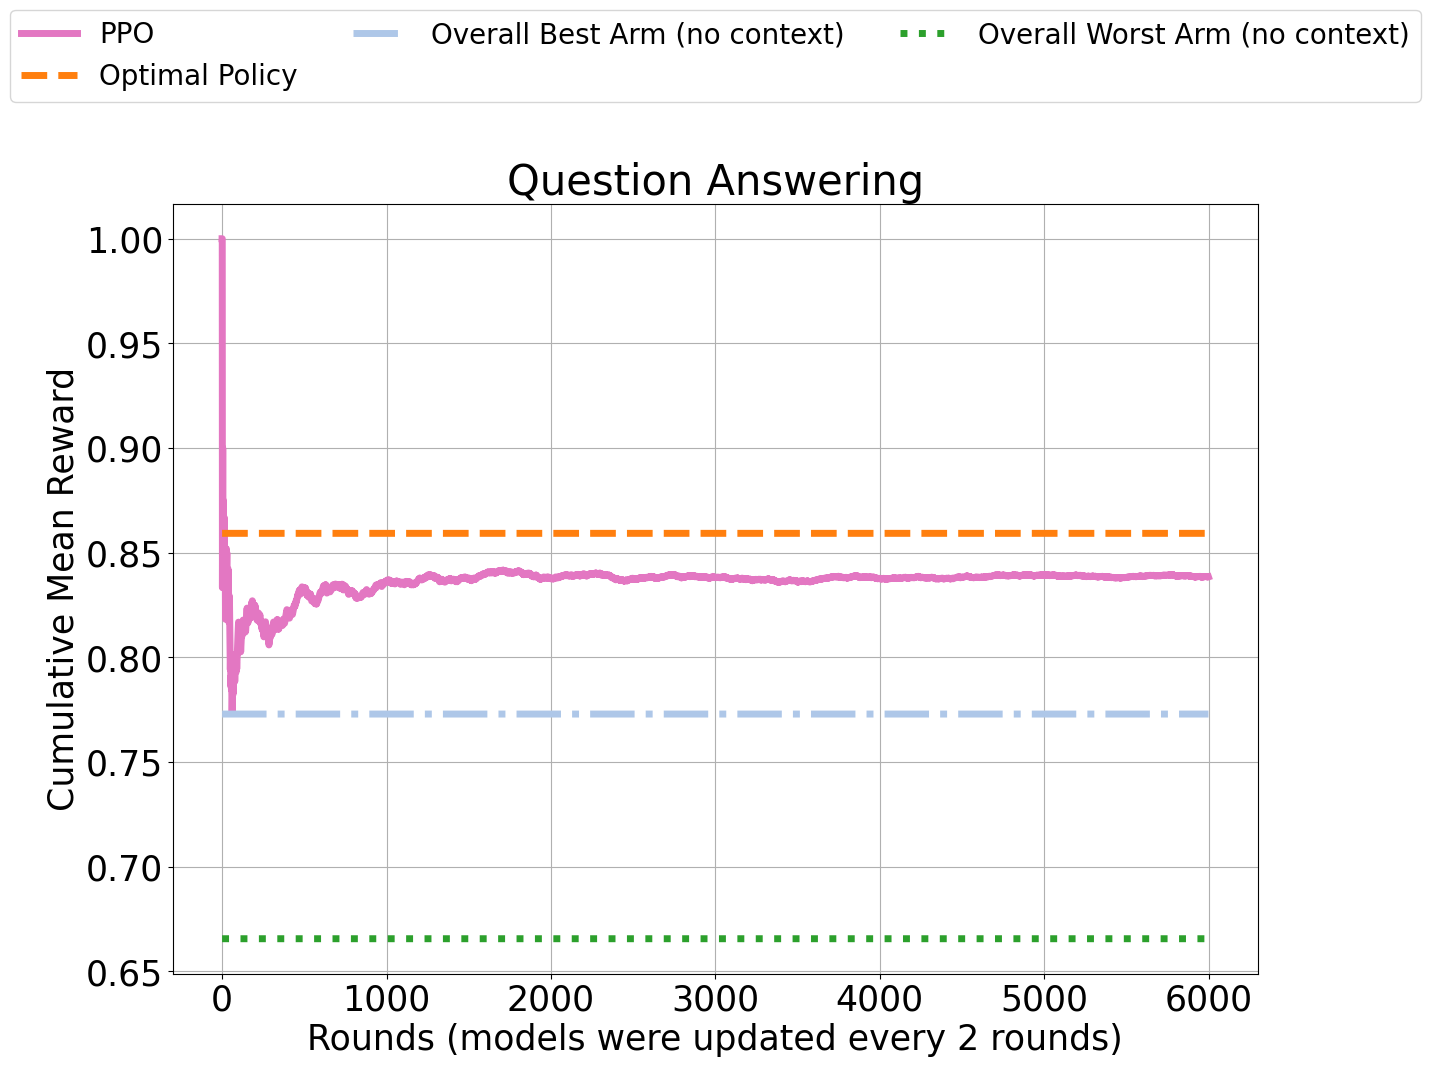
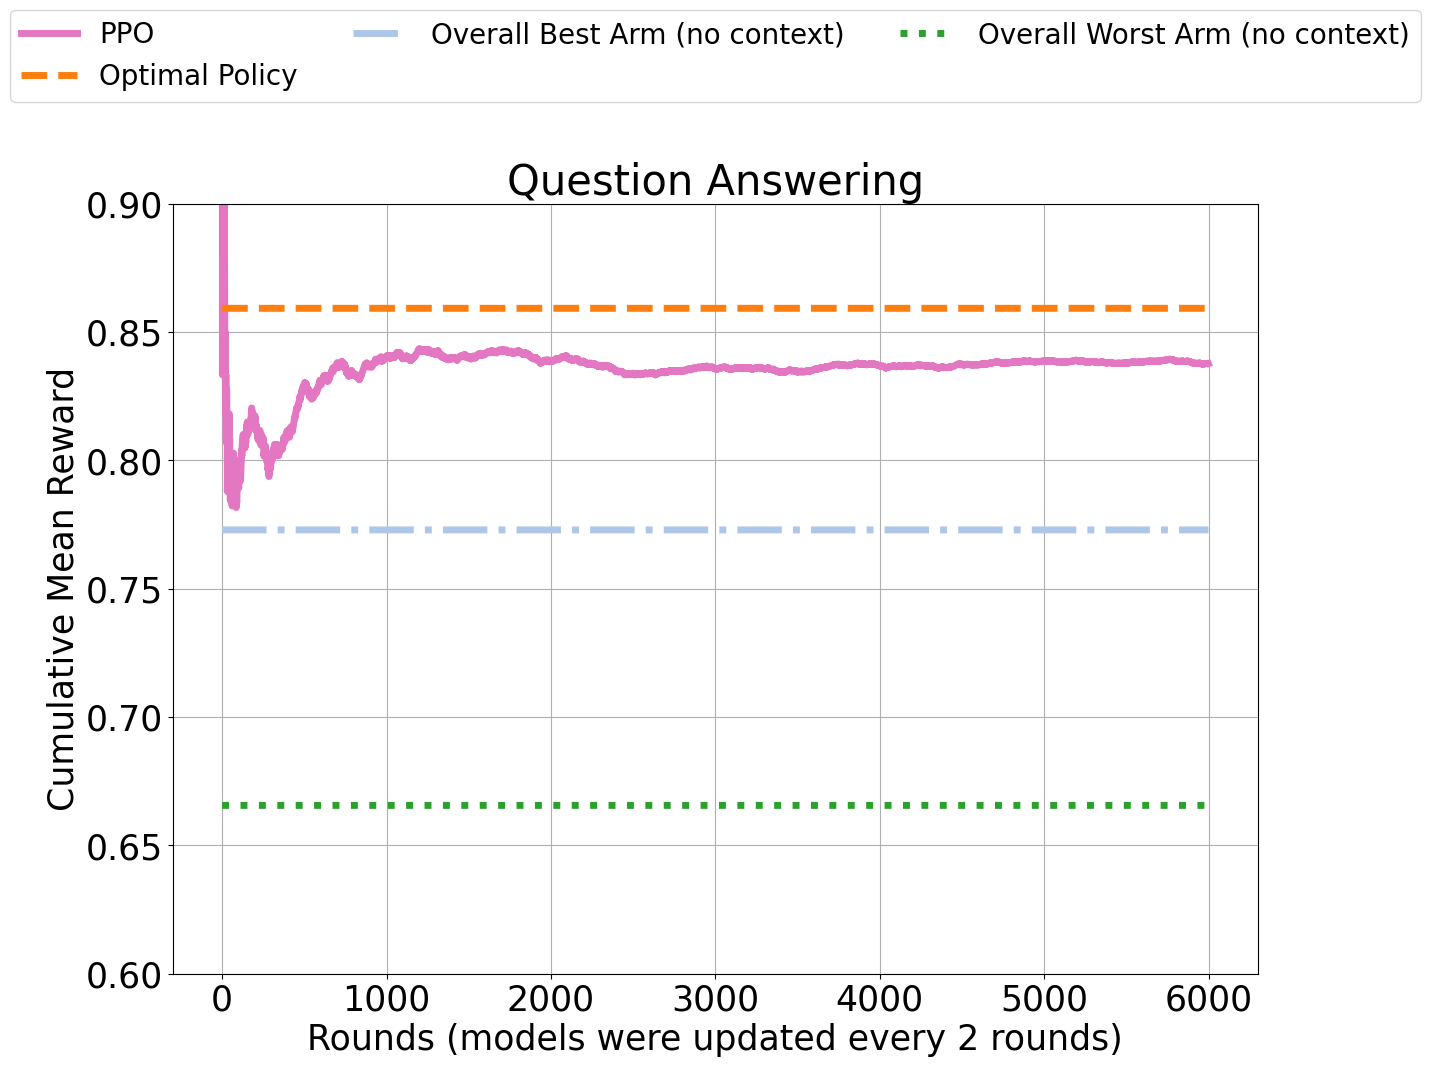
Alfred and mmlu latency done

diff --git a/query/src/plotting/mmlu_latency_plot.py b/query/src/plotting/mmlu_latency_plot.py
@@ -7,7 +7,7 @@ from pylab import rcParams
 from utils import get_mean_reward
 
 bandits = {
-    # 0: "vicuna-7b-v1.5",
+    0: "vicuna-7b-v1.5",
     # 1: "falcon-180B",
     2: "falcon-180B-chat",
     # 3: "qCammel-70-x",
@@ -27,6 +27,8 @@ percentile = 95
 random_seed = 42
 dataset = "mmlu"
 max_iter = 4000
+alpha = 0.03
+beta = 0.0008
 ### set random seed
 np.random.seed(random_seed)
 contextual_bandits = False
@@ -53,15 +55,32 @@ X_complete = np.concatenate(
     axis=1,
 )
 arr = np.random.choice(np.arange(X_complete.shape[0]), dataset_size, replace=True)
-# print(arr)
 print("X complete", X_complete.shape)
 X = X_complete[arr, :]
 
-y_complete = np.load(data_path + "models_accnorm.npy")  # shape = [25256, 8]
-print("y complete", y_complete.shape)
+arm_results = np.load(data_path + "models_accnorm.npy")  # shape = [25256, 8]
+arm_results = arm_results[:, model_idx]
+
+### load latency data
+model_latency = np.zeros_like(arm_results)
+idx = 0
+for key, value in bandits.items():
+    latency = pd.read_csv(f"synced_data/csv/mmlu/{value}_answer_time.csv")
+    latency = np.array(latency["answer_time"] + latency["load_time"])
+    repeat_cnt = arm_results.shape[0] // len(latency) + 1
+    latency = np.tile(latency, repeat_cnt)
+    model_latency[:, idx] = latency[selected_indices]
+    idx += 1
+
+### load token costs
+token_len = np.zeros_like(arm_results)
+token_length = np.load("synced_data/csv/mmlu/question_token_length.npy")
+token_len[:, 1:] = token_length[selected_indices, np.newaxis]
+
+### add acc and latency
+y_complete = arm_results - alpha * np.log10(model_latency) - beta * token_len
 
 y_complete = y_complete[selected_indices, :]
-y_complete = y_complete[:, model_idx]
 y = y_complete[arr, :]
 
 print(X.shape)
@@ -98,7 +117,7 @@ if contextual_bandits:
 rewards_opt = np.array(int(y.shape[0] / batch_size) * [y.max(axis=1).mean()])
 
 ### load PPO reward
-ppo = pd.read_csv(f"./synced_data/cumulative_reward/mmlu_step{batch_size}.csv")
+ppo = pd.read_csv(f"./synced_data/cumulative_reward/mmlu_latency_step{batch_size}.csv")
 ### pandas to numpy
 rewards_ppo = ppo["mean_reward"].to_numpy()[: rewards_opt.shape[0]]
 print("PPO mean reward: ", rewards_ppo.shape)
@@ -167,9 +186,7 @@ plt.xlabel(f"Rounds (models were updated every {batch_size} rounds)", size=25)
 plt.ylabel("Cumulative Mean Reward", size=25)
 plt.title("Question Answering", size=30)
 plt.grid()
-plt.ylim(0.6, 0.9)
-plt.yticks(np.arange(0.6, 0.91, 0.05))
 plt.savefig(
-    f"./plot/mmlu/{dataset}_ds{dataset_size}_bs{batch_size}_per{percentile}.png",
+    f"./plot/mmlu/{dataset}_latency_ds{dataset_size}_bs{batch_size}_per{percentile}.png",
     bbox_inches="tight",
 )

diff --git a/query/envs/OpenDomainLatencyGymEnv.py b/query/envs/OpenDomainLatencyGymEnv.py
@@ -10,14 +10,14 @@ from gymnasium import spaces
 import query.envs  # noqa: F401
 
 bandits = {
-    # 0: "vicuna-7b-v1.5",
+    0: "vicuna-7b-v1.5",
     # 1: "falcon-180B",
     2: "falcon-180B-chat",
     # 3: "qCammel-70-x",
     4: "Llama-2-70b-instruct",
     # 5: "Llama-2-70b-instruct-v2",
     6: "StableBeluga-13B",
-    7: "airoboros-l2-70b",
+    # 7: "airoboros-l2-70b",
 }
 
 subset_map = json.load(open("synced_data/mmlu/subdatasets.json"))

diff --git a/query/src/policy/ppo.py b/query/src/policy/ppo.py
@@ -106,7 +106,7 @@ elif "Alfred" in env_name:
     )
     log_path = f"./tensorboard_log/PPO_step{n_steps}_Alfred_{reward_metric}/"
 elif "Waymo" in env_name:
-    total_timesteps = 15000
+    total_timesteps = 10000
     env = gym.make(
         env_name + "-v1",
         max_episode_steps=max_episode_steps,

diff --git a/query/envs/OpenDomainGymEnv.py b/query/envs/OpenDomainGymEnv.py
@@ -17,7 +17,7 @@ bandits = {
     4: "Llama-2-70b-instruct",
     # 5: "Llama-2-70b-instruct-v2",
     6: "StableBeluga-13B",
-    7: "airoboros-l2-70b",
+    # 7: "airoboros-l2-70b",
 }
 
 subset_map = json.load(open("synced_data/mmlu/subdatasets.json"))
